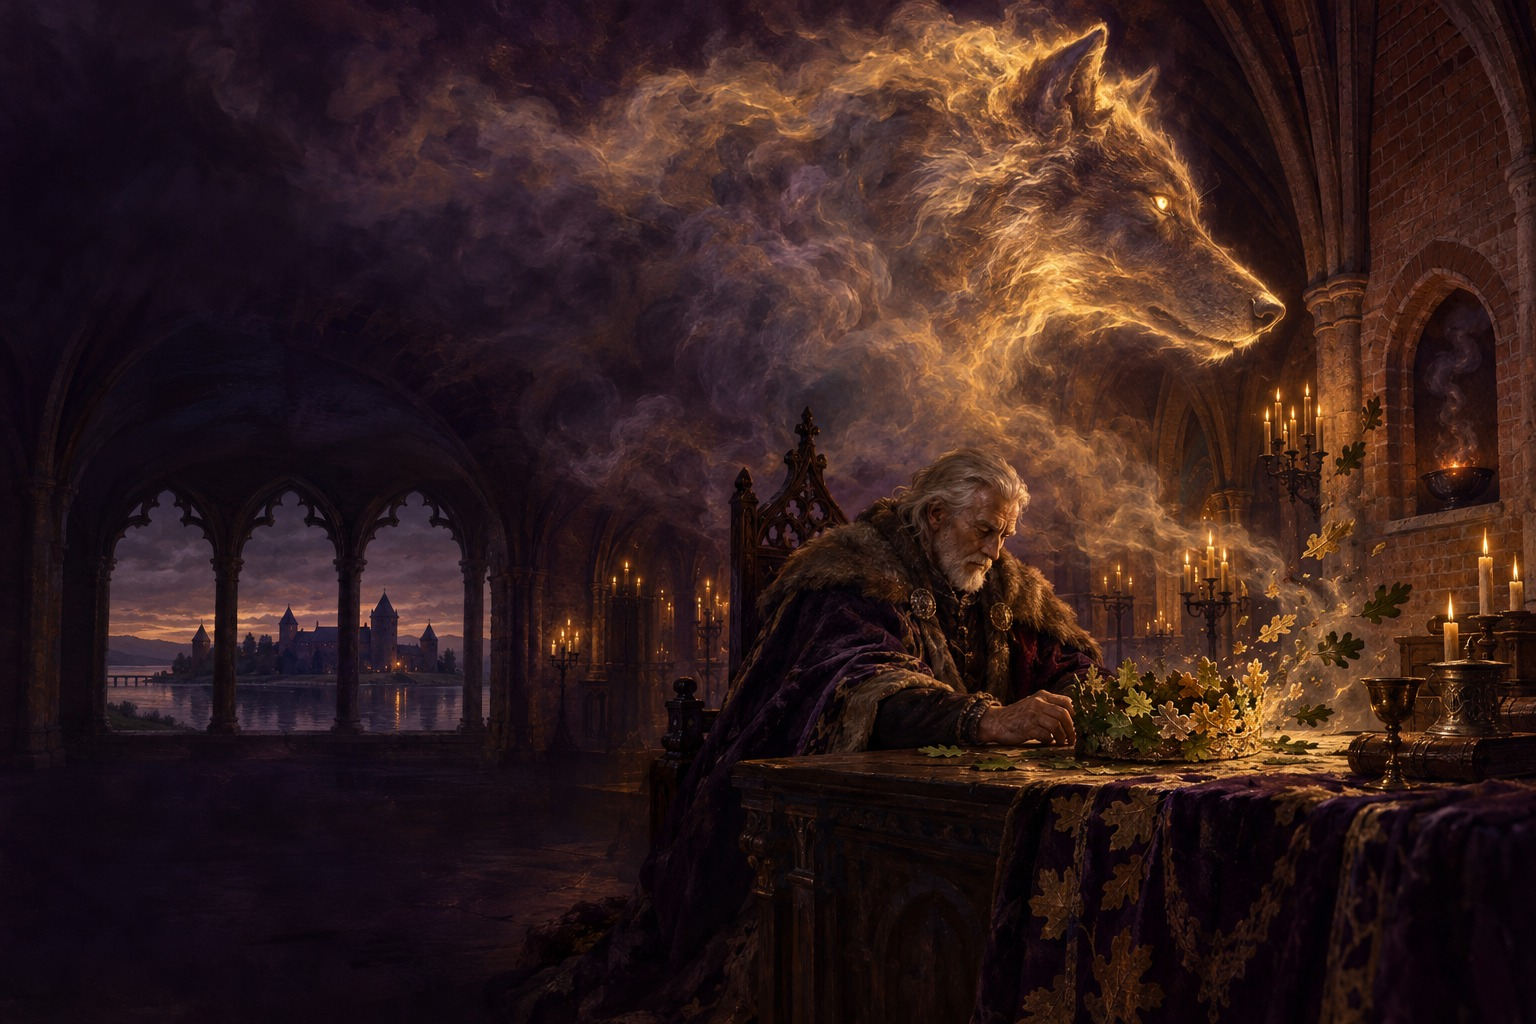
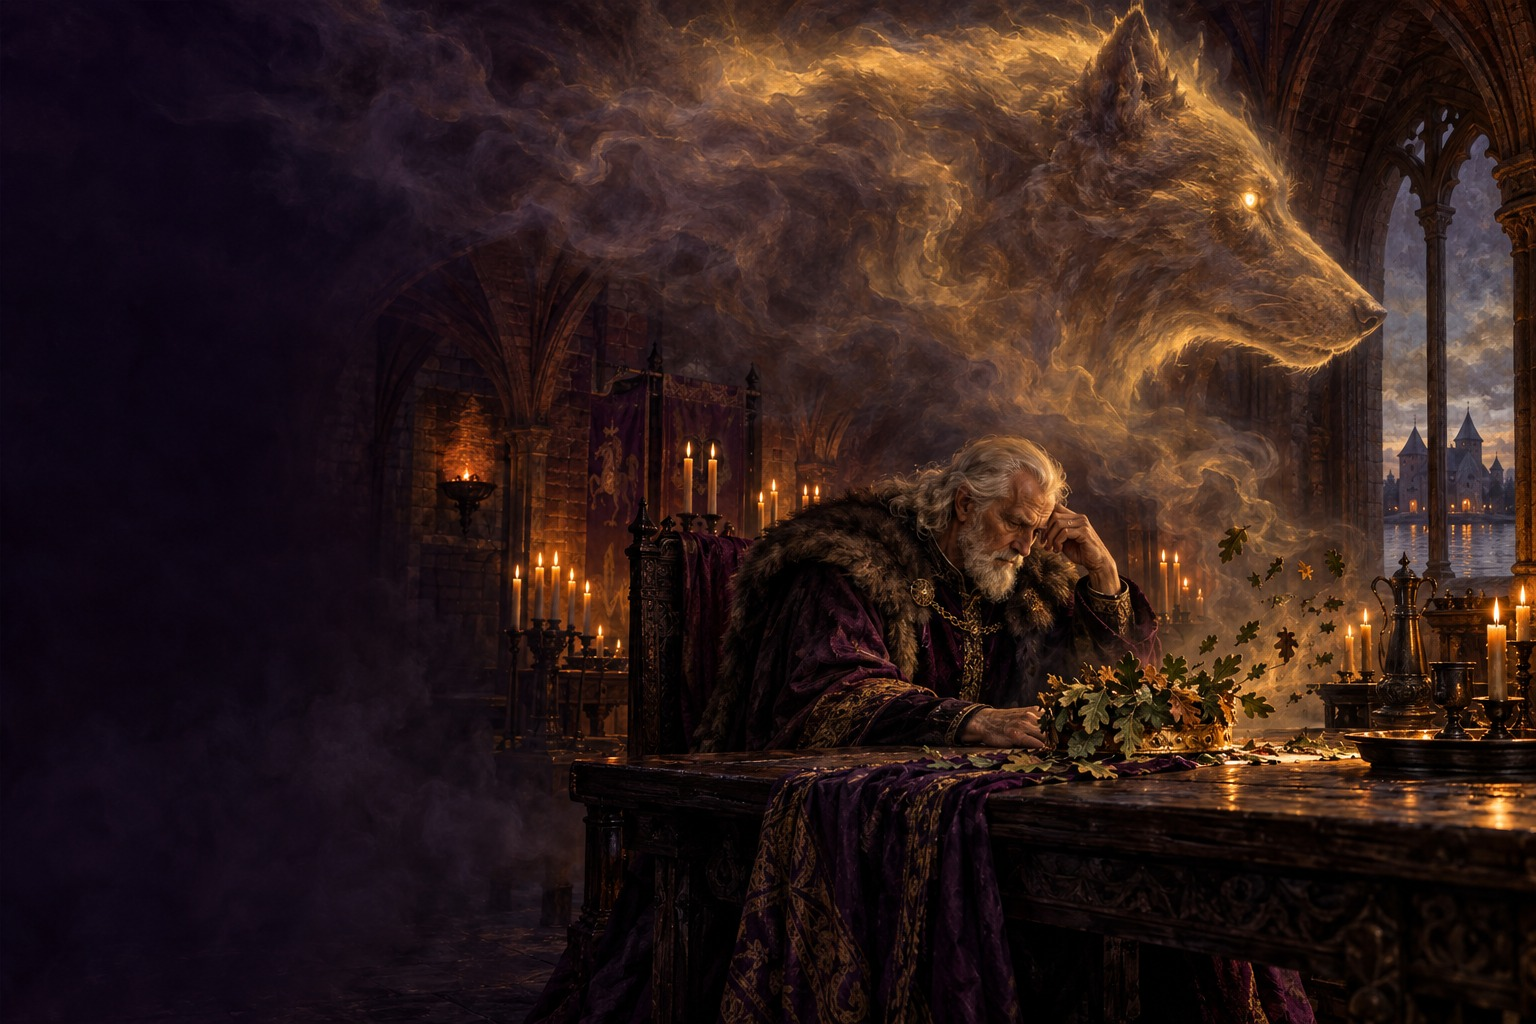
Book IV cover: switch to v3 art; make_covers writes the published JPEGs
- New portrait and wide art for Nematoma Karūna (larger wolf, calmer title area).
- make_covers.py now also writes front_ebook/video_bg .jpg copies, so the
  committed web/EPUB versions stay in sync without a manual step.

diff --git a/scripts/make_covers.py b/scripts/make_covers.py
@@ -690,6 +690,9 @@ def build_book(ctx: Ctx, n: int, kinds=("ebook", "square", "video", "thumb")):
         img, src = render_front(ctx, b, kind) if kind in ("ebook", "square") else render_wide(ctx, b, kind)
         p = od / FILENAMES[kind]
         img.save(p)
+        if kind in ("ebook", "video"):
+            # Web/EPUB copies: these JPEGs are the committed, published versions.
+            img.convert("RGB").save(p.with_suffix(".jpg"), quality=90, optimize=True, progressive=True)
         status.append(f"{FILENAMES[kind]} <- {src.label}")
     print(f"book {n} ({ctx.title(b)}): " + "; ".join(status))
 
